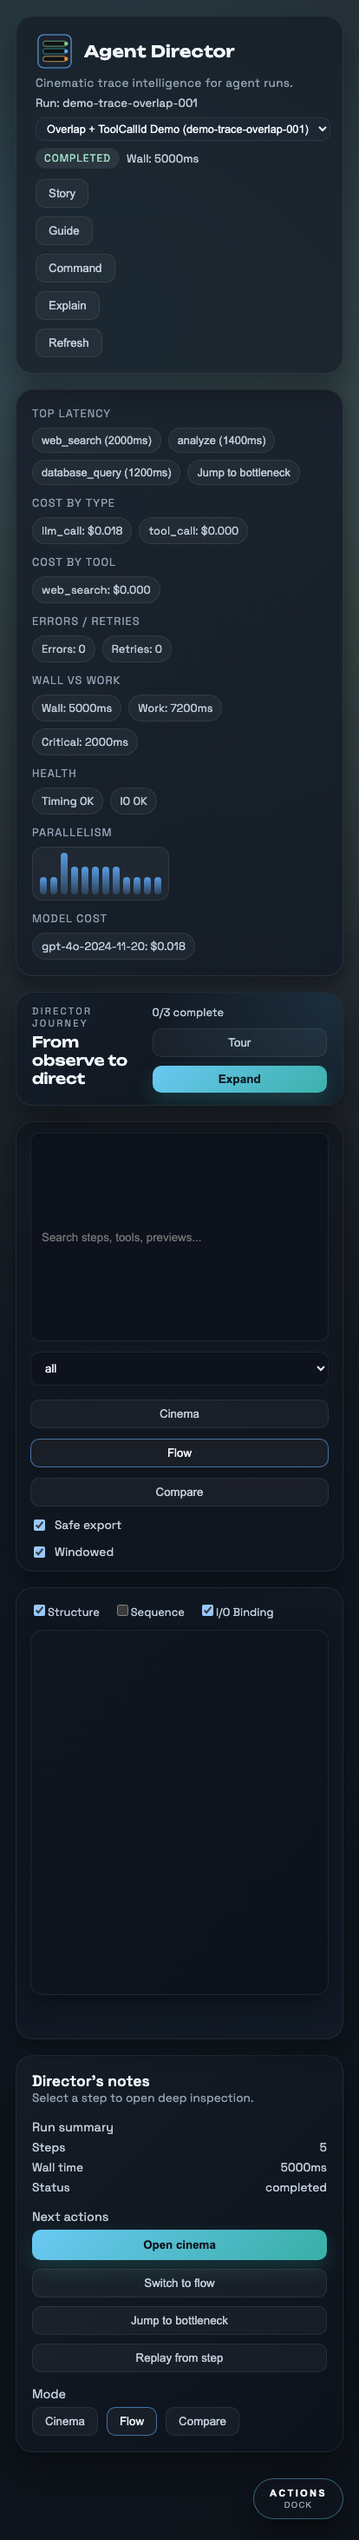
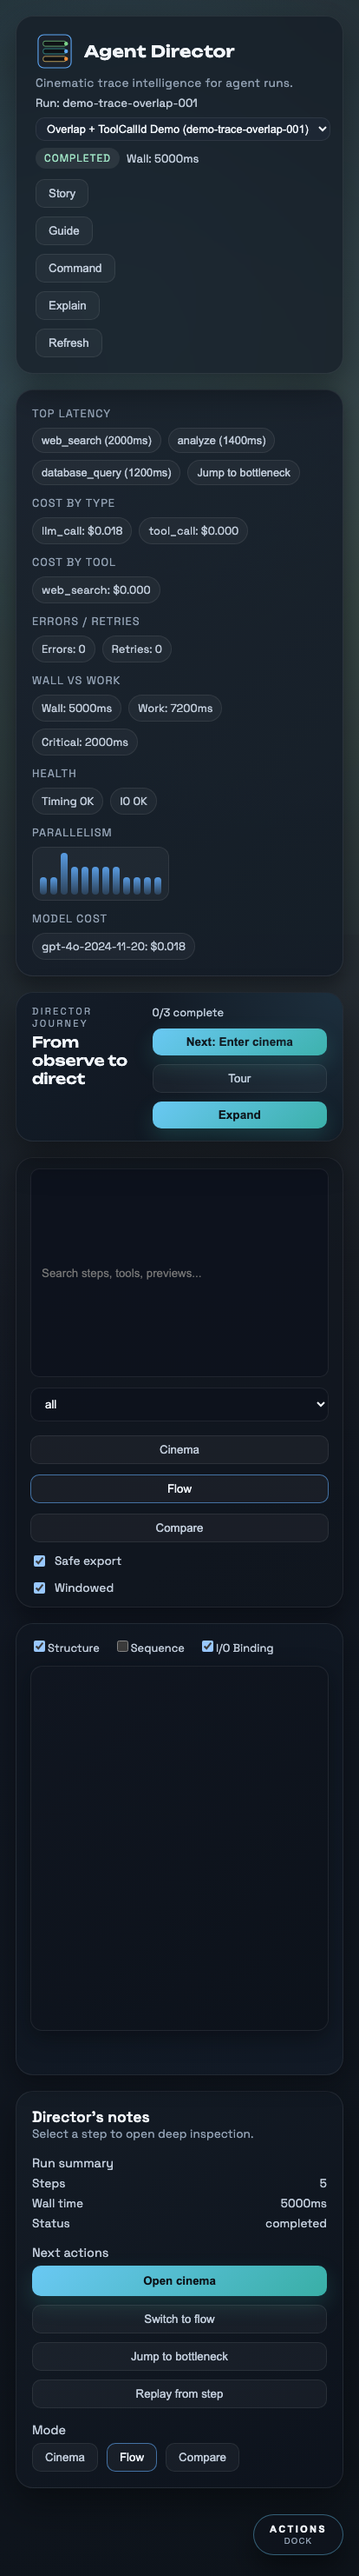
feat(onboarding): add intro actions and journey next step

diff --git a/ui/src/components/common/IntroOverlay.tsx b/ui/src/components/common/IntroOverlay.tsx
@@ -5,9 +5,10 @@ const INTRO_MS = 2800;
 type IntroOverlayProps = {
   onComplete: () => void;
   onStartTour?: () => void;
+  onStartStory?: () => void;
 };
 
-export default function IntroOverlay({ onComplete, onStartTour }: IntroOverlayProps) {
+export default function IntroOverlay({ onComplete, onStartTour, onStartStory }: IntroOverlayProps) {
   useEffect(() => {
     const timer = window.setTimeout(() => onComplete(), INTRO_MS);
     return () => window.clearTimeout(timer);
@@ -15,6 +16,11 @@ export default function IntroOverlay({ onComplete, onStartTour }: IntroOverlayPr
 
   const handleStartTour = () => {
     onStartTour?.();
+    onComplete();
+  };
+
+  const handleStartStory = () => {
+    onStartStory?.();
     onComplete();
   };
 
@@ -48,6 +54,11 @@ export default function IntroOverlay({ onComplete, onStartTour }: IntroOverlayPr
           <button className="primary-button" type="button" onClick={handleStartTour}>
             Start guided tour
           </button>
+          {onStartStory ? (
+            <button className="ghost-button" type="button" onClick={handleStartStory}>
+              Play story mode
+            </button>
+          ) : null}
           <button className="ghost-button" type="button" onClick={onComplete}>
             Skip intro
           </button>

diff --git a/ui/src/components/common/JourneyPanel.tsx b/ui/src/components/common/JourneyPanel.tsx
@@ -113,6 +113,7 @@ export default function JourneyPanel({
       disabled: !primaryStepId,
     },
   ];
+  const activeStep = journeySteps[currentIndex];
 
   if (collapsed) {
     return (
@@ -132,6 +133,16 @@ export default function JourneyPanel({
         </div>
         <div className="journey-collapsed-actions">
           <span className="journey-progress-text">{progress}/3 complete</span>
+          {activeStep ? (
+            <button
+              className="primary-button journey-next"
+              type="button"
+              onClick={activeStep.action}
+              disabled={activeStep.disabled}
+            >
+              Next: {activeStep.actionLabel}
+            </button>
+          ) : null}
           {onStartTour ? (
             <button className="ghost-button" type="button" onClick={onStartTour}>
               Tour

diff --git a/ui/src/styles/main.css b/ui/src/styles/main.css
@@ -1824,6 +1824,7 @@ pre {
   display: flex;
   gap: 10px;
   align-items: center;
+  flex-wrap: wrap;
 }
 
 .journey-progress-text {
@@ -1834,6 +1835,15 @@ pre {
 .journey-expand {
   font-size: 0.85rem;
   padding: 8px 14px;
+}
+
+.journey-next {
+  font-size: 0.85rem;
+  padding: 8px 14px;
+  max-width: 240px;
+  white-space: nowrap;
+  overflow: hidden;
+  text-overflow: ellipsis;
 }
 
 .tour-overlay {
@@ -2144,6 +2154,11 @@ pre {
   .journey-footer {
     flex-direction: column;
     align-items: flex-start;
+  }
+
+  .journey-next {
+    max-width: 100%;
+    width: 100%;
   }
 
   .journey-progress {

diff --git a/ui/src/App.tsx b/ui/src/App.tsx
@@ -849,6 +849,7 @@ export default function App() {
             setIntroDismissed(true);
             setTourOpen(true);
           }}
+          onStartStory={startStory}
         />
       ) : null}
       <GuidedTour

diff --git a/docs/ux.md b/docs/ux.md
@@ -20,7 +20,7 @@
 - **Explain mode** adds contextual callouts on hover for every major control.
 
 ## Onboarding stack
-1. **Intro overlay** sets the three-act mental model (Observe → Inspect → Direct).
+1. **Intro overlay** sets the three-act mental model (Observe → Inspect → Direct) and offers Tour or Story mode.
 2. **Guided tour** highlights the main controls in order.
 3. **Explain mode** offers just-in-time help on any element.
 4. **Story mode** runs the full demo hands-free.
